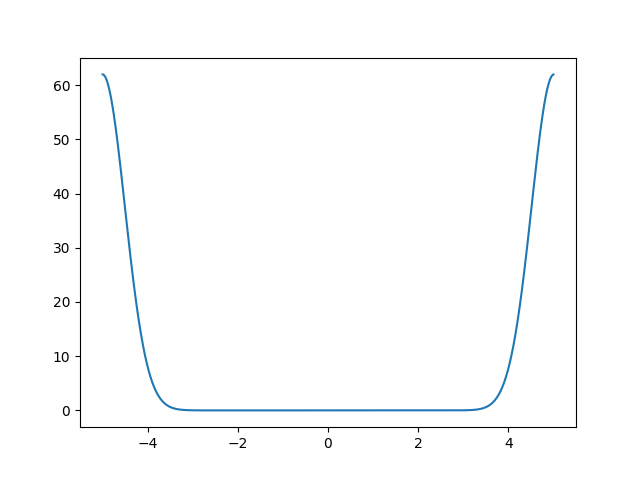
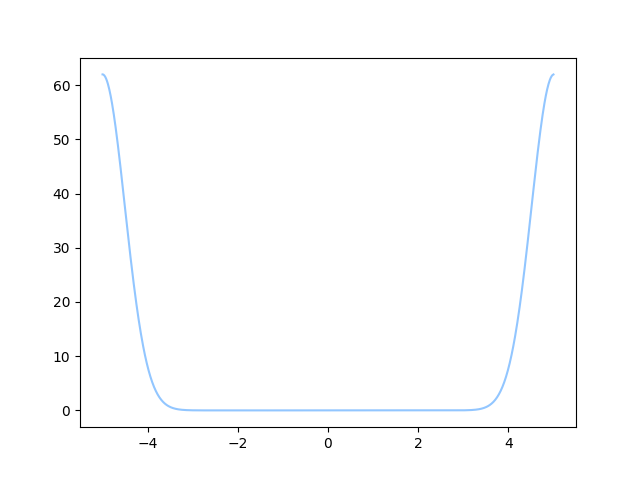
updated problems

diff --git a/problem_sets/ps5/problem_3.py b/problem_sets/ps5/problem_3.py
@@ -1,0 +1,61 @@
+'''
+Problem Set #5, Problem #3
+Mattias Lazda
+260845451
+Last Updated: October 23, 2021
+'''
+
+import numpy as np
+import matplotlib.pyplot as plt 
+plt.style.use('seaborn-pastel')
+
+# Import function from Problem #1 
+def shift_arr(arr, shift_frames):
+
+    f = arr
+    g = np.zeros(len(f))
+    g[shift_frames] = 1
+    F = np.fft.rfft(f)
+    G = np.fft.rfft(g)
+    shifted_func = np.fft.irfft(F*G)
+
+    return shifted_func
+
+# Import function from Problem #2
+def get_correlation_func(f, g):
+
+    F = np.fft.rfft(f)
+    G = np.fft.rfft(g)
+
+    return np.fft.irfft(F*np.conj(G))
+
+
+# Combine functions
+def modified_correlation(f, g, frame_shift):
+    '''
+    Computes the correlation function of f and g, where f is shifted by a set number of frames.
+    '''
+    shifted_f = shift_arr(f, frame_shift)
+
+    return get_correlation_func(shifted_f, g), shifted_f
+
+# Generate Gaussian
+nframes = 1000
+x = np.linspace(-5,5,nframes)
+y = np.exp(-0.5*(x)**2/0.35**2)
+
+# Test multiple frame shifts
+frame_shift_arr = [int(nframes/4), int(nframes/2), int(3*nframes/4)]
+for i in frame_shift_arr:
+    plt.plot(x, modified_correlation(y, y, i)[0], label = 'Shifted Frames: {0}'.format(i))
+    plt.legend(loc = 'lower center')
+
+plt.savefig('correlated_shifted_gauss.png')    
+plt.show();plt.clf()
+
+for i in frame_shift_arr:
+    plt.plot(x, modified_correlation(y, y, i)[1], label = 'Shifted Frames: {0}'.format(i))
+    plt.legend(loc = 'lower center')
+    
+plt.savefig('shifted_gauss_p3.png')
+plt.show()

diff --git a/problem_sets/ps5/problem_1.py b/problem_sets/ps5/problem_1.py
@@ -7,6 +7,7 @@ Last Updated: October 23, 2021
 
 import numpy as np
 import matplotlib.pyplot as plt
+plt.style.use('seaborn-pastel')
 
 def shift_arr(arr, shift_frames):
     '''
@@ -16,8 +17,7 @@ def shift_arr(arr, shift_frames):
 
     # Define functions to convolve
     f = arr
-    centr = len(f)//2
-
+    
     # Define delta function
     g = np.zeros(len(f))
     g[shift_frames] = 1

diff --git a/problem_sets/ps5/problem_2.py b/problem_sets/ps5/problem_2.py
@@ -7,6 +7,7 @@ Last Updated: October 23, 2021
 
 import numpy as np
 import matplotlib.pyplot as plt
+plt.style.use('seaborn-pastel')
 
 def get_correlation_func(f, g):
     '''
